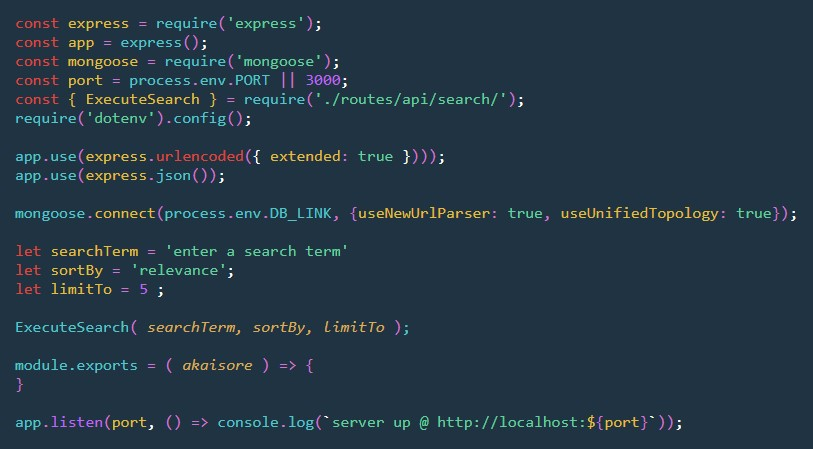
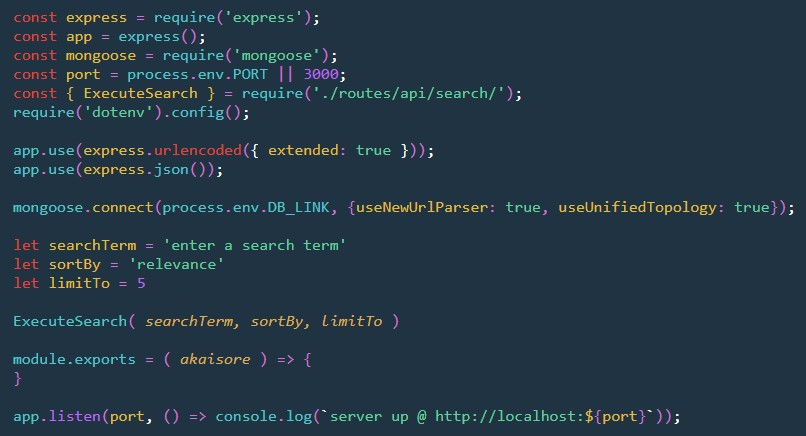
completes post styling and adds to readme

diff --git a/src/components/Results/Post.js b/src/components/Results/Post.js
@@ -9,14 +9,22 @@ import {
     Value,
     CommentedOut,
     Indent,
-    SecondIndent
+    SecondIndent,
+    NumValue
 } from '../../style';
+import moment from 'moment';
 
 export const Post = ({ post }) => {
     const [showPost, setShowPost] = useState(false);
     const [showComments, setShowComments] = useState(false);
     const [comments, setComments] = useState('');
-    let postDetail = post.selftext ? post.selftext : post.url;
+    let postDetail = post.selftext ? (
+        post.selftext
+    ) : (
+        <a href={post.url} target='_blank' rel='noopener noreferrer'>
+            {post.url}
+        </a>
+    );
 
     useEffect(() => {
         const fetchData = async () => {
@@ -43,128 +51,98 @@ export const Post = ({ post }) => {
     };
 
     const str = post.title.split(' ').join('');
-    // console.log(str);
     const postHeader = str.length > 20 ? str.slice(0, 20) : str;
-    // console.log(str);
-    // const postHeader = str.length > 20 ? str.splice(20, str.length - 20) : str;
-    // console.log(postHeader);
+
     return (
         <Indent>
             <br />
-            {/* POST TITLE */}
             <p>
                 <Variable>const </Variable>
                 <VariableName>{postHeader} </VariableName>
                 <Operator>
-                    = ( <Param>...params</Param> ) => {'{'}
+                    = ( <Param>author, {post.author}</Param> ) => {'{'}
                 </Operator>
             </p>
             <SecondIndent>
                 <p>
-                    <Variable>let </Variable>
-                    <VariableName>title </VariableName>
-                    <Operator>= </Operator>
-                    <Value>'{post.title}'</Value>
+                    {/* eslint-disable-next-line */}
+                    <CommentedOut> // {post.title}</CommentedOut>
                 </p>
-                {/* POST CREATE DATE */}
                 <p>
                     <Variable>let </Variable>
                     <VariableName>created </VariableName>
                     <Operator>= </Operator>
-                    <Value>'{post.created}'</Value>
+                    <Value>
+                        '{moment(post.created_utc * 1000).format('dddd, MMMM Do YYYY, h:mm:ss a')}'
+                    </Value>
+                    ;
                 </p>
-                {/* POST AUTHOR */}
+                <br />
                 <p>
-                    <Variable>let </Variable>
-                    <VariableName>author </VariableName>
-                    <Operator>= </Operator>
-                    <Value>{post.author}</Value>
+                    <button onClick={togglePost}>
+                        <FunctionName>showBody</FunctionName>
+                        <Operator>()</Operator>
+                    </button>
+                    ;
                 </p>
-                {/* SHOW POST BODY BUTTON */}
-                <p>
-                    <Variable>let </Variable>
-                    <FunctionName>
-                        showPost
-                        <Operator>
-                            = (
-                            <button onClick={togglePost}>
-                                <Param> showPost </Param>
-                            </button>
-                            ) =>
-                        </Operator>
-                    </FunctionName>
-                    <Operator>{' { '}</Operator>
-                    <Operator>{' } '}</Operator>
-                </p>
-                {/* POST BODY */}
+                <br />
                 {showPost ? (
                     <p>
-                        <Variable>let </Variable>
-                        <VariableName>postDetail </VariableName>
-                        <Operator>= </Operator>
-                        <Value>{postDetail}</Value>
+                        {/* eslint-disable-next-line */}
+                        <CommentedOut> /* {postDetail} */</CommentedOut>
                     </p>
                 ) : null}
-                {/* SUBREDDIT */}
                 <p>
                     <Variable>let </Variable>
                     <VariableName>subReddit </VariableName>
                     <Operator>= </Operator>
-                    <Value>{post.subreddit_name_prefixed}</Value>
+                    <Value>'{post.subreddit_name_prefixed}'</Value>;
                 </p>
-                {/* SUBREDDIT SUB COUNT */}
                 <p>
                     <Variable>let </Variable>
                     <VariableName>subRedditSubs </VariableName>
                     <Operator>= </Operator>
-                    <Value>{post.subreddit_subscribers}</Value>
+                    <NumValue>{post.subreddit_subscribers}</NumValue>;
                 </p>
-                {/* SCORE */}
+                <br />
+                <p>
+                    {/* eslint-disable-next-line */}
+                    <CommentedOut> // Gilded: {post.gilded}</CommentedOut>
+                </p>
                 <p>
                     <Variable>let </Variable>
                     <VariableName>score </VariableName>
                     <Operator>= </Operator>
-                    <Value>{post.score}</Value>
-                    {/* eslint-disable-next-line */}
-                    <CommentedOut> // Gilded: {post.gilded}</CommentedOut>
+                    <NumValue>{post.score}</NumValue>;
                 </p>
-                {/* UP VOTES */}
                 <p>
                     <Variable>let </Variable>
                     <VariableName>upVotes </VariableName>
                     <Operator>= </Operator>
-                    <Value>{post.ups}</Value>
+                    <NumValue>{post.ups}</NumValue>;
                 </p>
-                {/* DOWN VOTES */}
                 <p>
                     <Variable>let </Variable>
                     <VariableName>downVotes </VariableName>
                     <Operator>= </Operator>
-                    <Value>{post.downs}</Value>
+                    <NumValue>{post.downs}</NumValue>;
                 </p>
-                {/* COMMENT COUNT */}
+                <br />
                 <p>
                     <Variable>let </Variable>
                     <VariableName>comments </VariableName>
                     <Operator>= </Operator>
-                    <Value>{post.num_comments}</Value>
+                    <NumValue>{post.num_comments}</NumValue>;
                 </p>
                 {post.num_comments ? (
                     <p>
-                        <Variable>let </Variable>
-                        <FunctionName>
-                            showComments
-                            <Operator>
-                                = (
-                                <button onClick={toggleComments}>
-                                    <Param>showComments</Param>
-                                </button>
-                                ) =>
-                            </Operator>
-                        </FunctionName>
-                        <Operator>{' {'} </Operator>
-
-                        <Operator>{' }'} </Operator>
+                        <button onClick={toggleComments}>
+                            <FunctionName>
+                                showComments
+                                <Operator>()</Operator>
+                            </FunctionName>
+                        </button>
+                        ;
                     </p>
                 ) : null}
                 {/* POST COMMENTS */}
@@ -173,7 +151,7 @@ export const Post = ({ post }) => {
                     : null}
             </SecondIndent>
             <p>
-                <Operator>{'}'}</Operator>
+                <Operator>{'}'}</Operator>;
             </p>
         </Indent>
     );

diff --git a/src/components/Form/SearchForm.js b/src/components/Form/SearchForm.js
@@ -55,7 +55,6 @@ export const SearchForm = () => {
                 <option value='new'>'new'</option>
                 <option value='comments'>'comments'</option>
             </select>
-            ;
             <br />
             <Variable>let </Variable>
             <VariableName>limitTo </VariableName>
@@ -66,7 +65,6 @@ export const SearchForm = () => {
                 <option value={25}>25</option>
                 <option value={50}>50</option>
             </select>
-            ;
             <br />
             <br />
             <button type='submit'>
@@ -74,7 +72,7 @@ export const SearchForm = () => {
                     ExecuteSearch
                     <Operator>(</Operator>
                     <Param> searchTerm, sortBy, limitTo </Param>
-                    <Operator>)</Operator>;
+                    <Operator>)</Operator>
                 </FunctionName>
             </button>
         </form>

diff --git a/src/index.css b/src/index.css
@@ -5,6 +5,7 @@ body {
 }
 
 div,
+a,
 h1,
 h2,
 h3,
@@ -21,6 +22,12 @@ span {
     padding: 0;
     font-size: 1rem;
     font-family: 'Consolas', monospace;
+    text-decoration: none;
+    color: #fff;
+}
+
+a {
+    color: #8f8f8f;
 }
 
 button {

diff --git a/src/components/Results/Comment.js b/src/components/Results/Comment.js
@@ -1,6 +1,6 @@
 import React from 'react';
 
 export const Comment = ({ comment }) => {
-    console.log(comment);
+    // console.log(comment);
     return <div>{comment.data.body ? <li>{comment.data.body}</li> : null}</div>;
 };

diff --git a/README.md b/README.md
@@ -1,22 +1,33 @@
-# akaisore
+<h1 align='center'>Akaisore</h1>
 
-## desc
+<h2>🧠 About</h2>
+<p>Japanese for "Red" and "It". Akaisore is a 'JavaScript client' for Reddit. The client is built using React and utilizes a <a href='https://github.com/styled-components/styled-components'>styled components</a> library I put together with minimal help from a single CSS sheet.</p>
 
-A 'JavaScript client' for Reddit. Currently under development to release later in April 2020. The client is completely React utilizing a styled components library I put together with minimal help from a single CSS sheet.
+<h2>🍊 Description</h2>
+<p>Ever wanted to pass a little down-time at your desk without getting angry glares from coworkers? Perhaps you're waiting for your next meeting to start or you're taking lunch from your desk. With this application, you're able to browse Reddit under the shroud of JavaScript. The JSX from React that's rendered in the DOM is styled to look like JavaScript with ES6 syntax. <a href='https://petewanca.github.io/akaisore' target='_blank'>Have a look around!</a></p>
 
-When passing by your desk, someone may think you're writing the next greatest JS based application with ES6 syntax, but in reality, you're reading the top posts from your favorite sub reddit.
+<h2>💻 Technology</h2>
+<ul>
+    <li>React</li>
+    <li>Context</li>
+    <li>Hooks</li>
+[![style: styled-components](https://img.shields.io/badge/style-%F0%9F%92%85%20styled--components-orange.svg?colorB=daa357&colorA=db748e)](https://github.com/styled-components/styled-components)
+    <li>Moment</li>
+</ul>
 
-## tech
+<h2>👷♂ Contributor(s)</h2>
 
-React with Context, Hooks & Styled Components
+<p>Pete Wanca</p>
+<ul>
+    <li><a href='https://petewanca.github.io/' target='_blank'>Home page</a></li>
+    <li><a https://www.linkedin.com/in/petewanca' target='_blank'>LinkedIn</a></li>
+    <li>petewanca@gmail.com</li>
+</ul>
 
-## home page sample
+<h2>👩🏽💻 Further Development</h2>
+<p>With v1 completed as of ________, the intention is to continue adding features to Akaisore over time. If you have suggestions or would like to contribute, feel free to fork and create a PR or shoot me an email at the address listed above. ✌ Arigatou gozaimasu!! ✌ Thank you for visiting my page, here's some screenshots of the application.</p>
+
+<h2>📸 Screenshots</h2>
+<p></p>
 
 ![Home page sample](/assets/home.jpg)
-
-### todo
-
-1. finish post formatting
-2. self text formatting of post
-3. comment formatting
-4. Redo screenshots for readme
